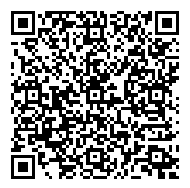
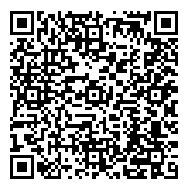
feat: update download link, add QR code asset, and refine image frame styles

diff --git a/main.js b/main.js
@@ -16,10 +16,10 @@
 // CONFIGURACIÓN CENTRALIZADA // ENLACE DE DESCARGA
 // ==========================================================================
 const CONFIG = {
-  DOWNLOAD_URL: "https://mega.nz/file/rSR3XSgQ#O9N9XS3Zo1OkCP-yfTSu9r6qqNNt5UbhtN2fkb6OOok",
+  DOWNLOAD_URL: "https://mega.nz/file/Ofg1kYhA#VuROtFQ6vp978G7tO9FRw1D3VrKEQWUdCUWDcqZ_bg8",
   FILENAME: "ForcesOfHeaven_Setup.exe",
   VERSION: "1.0.0",
-  FILE_SIZE: "891 MB"
+  FILE_SIZE: "892 MB"
 };
 
 // ==========================================================================
@@ -133,7 +133,7 @@ const TRANSLATIONS = {
 
     "steps.title": "DESPLIEGUE EN 3 PASOS",
     "steps.s1_title": "Descarga el Instalador",
-    "steps.s1_desc": "Obtén el ejecutable único ForcesOfHeaven_Setup.exe (466 MB) sin archivos adicionales.",
+    "steps.s1_desc": "Obtén el ejecutable único ForcesOfHeaven_Setup.exe (892 MB) sin archivos adicionales.",
     "steps.s2_title": "Ejecuta la Instalación",
     "steps.s2_desc": "Haz doble clic sobre el archivo. El instalador arcade extraerá y preparará el juego con un solo clic.",
     "steps.s3_title": "¡Despega al Combate!",
@@ -1026,7 +1026,7 @@ class FlightSimulationEngine {
 
     // Calcular trayectoria
     const traj = this.calculateTrajectory();
-    
+
     // Duración calculada según distancia y viewport
     const baseDuration = (traj.distance / (window.innerWidth < 768 ? 180 : 250)) * 1000;
     const duration = Math.max(5500, baseDuration / (cfg.speedFactor || 1.0));
@@ -1172,7 +1172,7 @@ class FlightSimulationEngine {
 
       const elements = document.elementsFromPoint(e.clientX, e.clientY);
       const hitPlane = elements.find(el => el.classList && el.classList.contains("flying-aircraft"));
-      
+
       if (hitPlane) {
         const aircraftKey = hitPlane.getAttribute("data-aircraft");
         const cfg = AIRCRAFT_CONFIG[aircraftKey];

diff --git a/style.css b/style.css
@@ -2009,15 +2009,19 @@ section {
   width: 100%;
   height: 320px;
   overflow: hidden;
-  background: #000;
+  background: radial-gradient(circle at 50% 40%, rgba(0, 240, 255, 0.12) 0%, rgba(3, 7, 18, 0.95) 75%);
+  display: flex;
+  align-items: flex-end;
+  justify-content: center;
 }
 
 .pm-img {
   width: 100%;
   height: 100%;
-  object-fit: cover;
-  object-position: top center;
+  object-fit: contain;
+  object-position: center bottom;
   display: block;
+  filter: drop-shadow(0 0 16px rgba(0, 240, 255, 0.25));
 }
 
 .pm-scanline {
@@ -2621,10 +2625,26 @@ section {
     width: 100%;
     border-right: none;
     border-bottom: 1px solid var(--border-subtle);
+    background: radial-gradient(ellipse at 50% 40%, rgba(0, 240, 255, 0.08) 0%, #060a14 75%);
   }
 
   .pm-img-frame {
-    height: 190px;
+    height: 210px;
+    max-height: 28vh;
+    display: flex;
+    align-items: flex-end;
+    justify-content: center;
+    background: radial-gradient(circle at 50% 50%, rgba(0, 240, 255, 0.14) 0%, rgba(3, 7, 18, 0.95) 75%);
+  }
+
+  .pm-img {
+    width: 100%;
+    height: 100%;
+    max-width: 220px;
+    object-fit: contain;
+    object-position: center bottom;
+    display: block;
+    filter: drop-shadow(0 0 16px rgba(0, 240, 255, 0.28));
   }
 
   .pm-role-tag {
@@ -2756,6 +2776,15 @@ section {
     flex-direction: column;
     align-items: stretch;
     gap: 0.5rem;
+  }
+
+  .pm-img-frame {
+    height: 195px;
+    max-height: 27vh;
+  }
+
+  .pm-img {
+    max-width: 190px;
   }
 
   .link-display-box {

diff --git a/index.html b/index.html
@@ -275,7 +275,7 @@
             </div>
 
             <!-- Primary Download Button (Mega) -->
-            <a href="https://mega.nz/file/rSR3XSgQ#O9N9XS3Zo1OkCP-yfTSu9r6qqNNt5UbhtN2fkb6OOok" id="mainDownloadBtn" class="btn-primary-download" target="_blank" rel="noopener noreferrer">
+            <a href="https://mega.nz/file/Ofg1kYhA#VuROtFQ6vp978G7tO9FRw1D3VrKEQWUdCUWDcqZ_bg8" id="mainDownloadBtn" class="btn-primary-download" target="_blank" rel="noopener noreferrer">
               <span class="btn-bg-shimmer"></span>
               <span class="dl-btn-content">
                 <span class="dl-icon-symbol">⬇</span>
@@ -288,7 +288,7 @@
             <div class="download-aux-bar">
               <span class="aux-label" data-i18n="dl.aux_label">ENLACE MEGA:</span>
               <div class="link-display-box">
-                <code id="displayDownloadUrl" class="url-text">https://mega.nz/file/rSR3XSgQ#O9N9XS3Zo1OkCP-yfTSu9r6qqNNt5UbhtN2fkb6OOok</code>
+                <code id="displayDownloadUrl" class="url-text">https://mega.nz/file/Ofg1kYhA#VuROtFQ6vp978G7tO9FRw1D3VrKEQWUdCUWDcqZ_bg8</code>
                 <button id="btnCopyLink" class="btn-copy" title="Copiar enlace al portapapeles">
                   <span data-i18n="dl.copy_btn">COPIAR</span>
                 </button>
